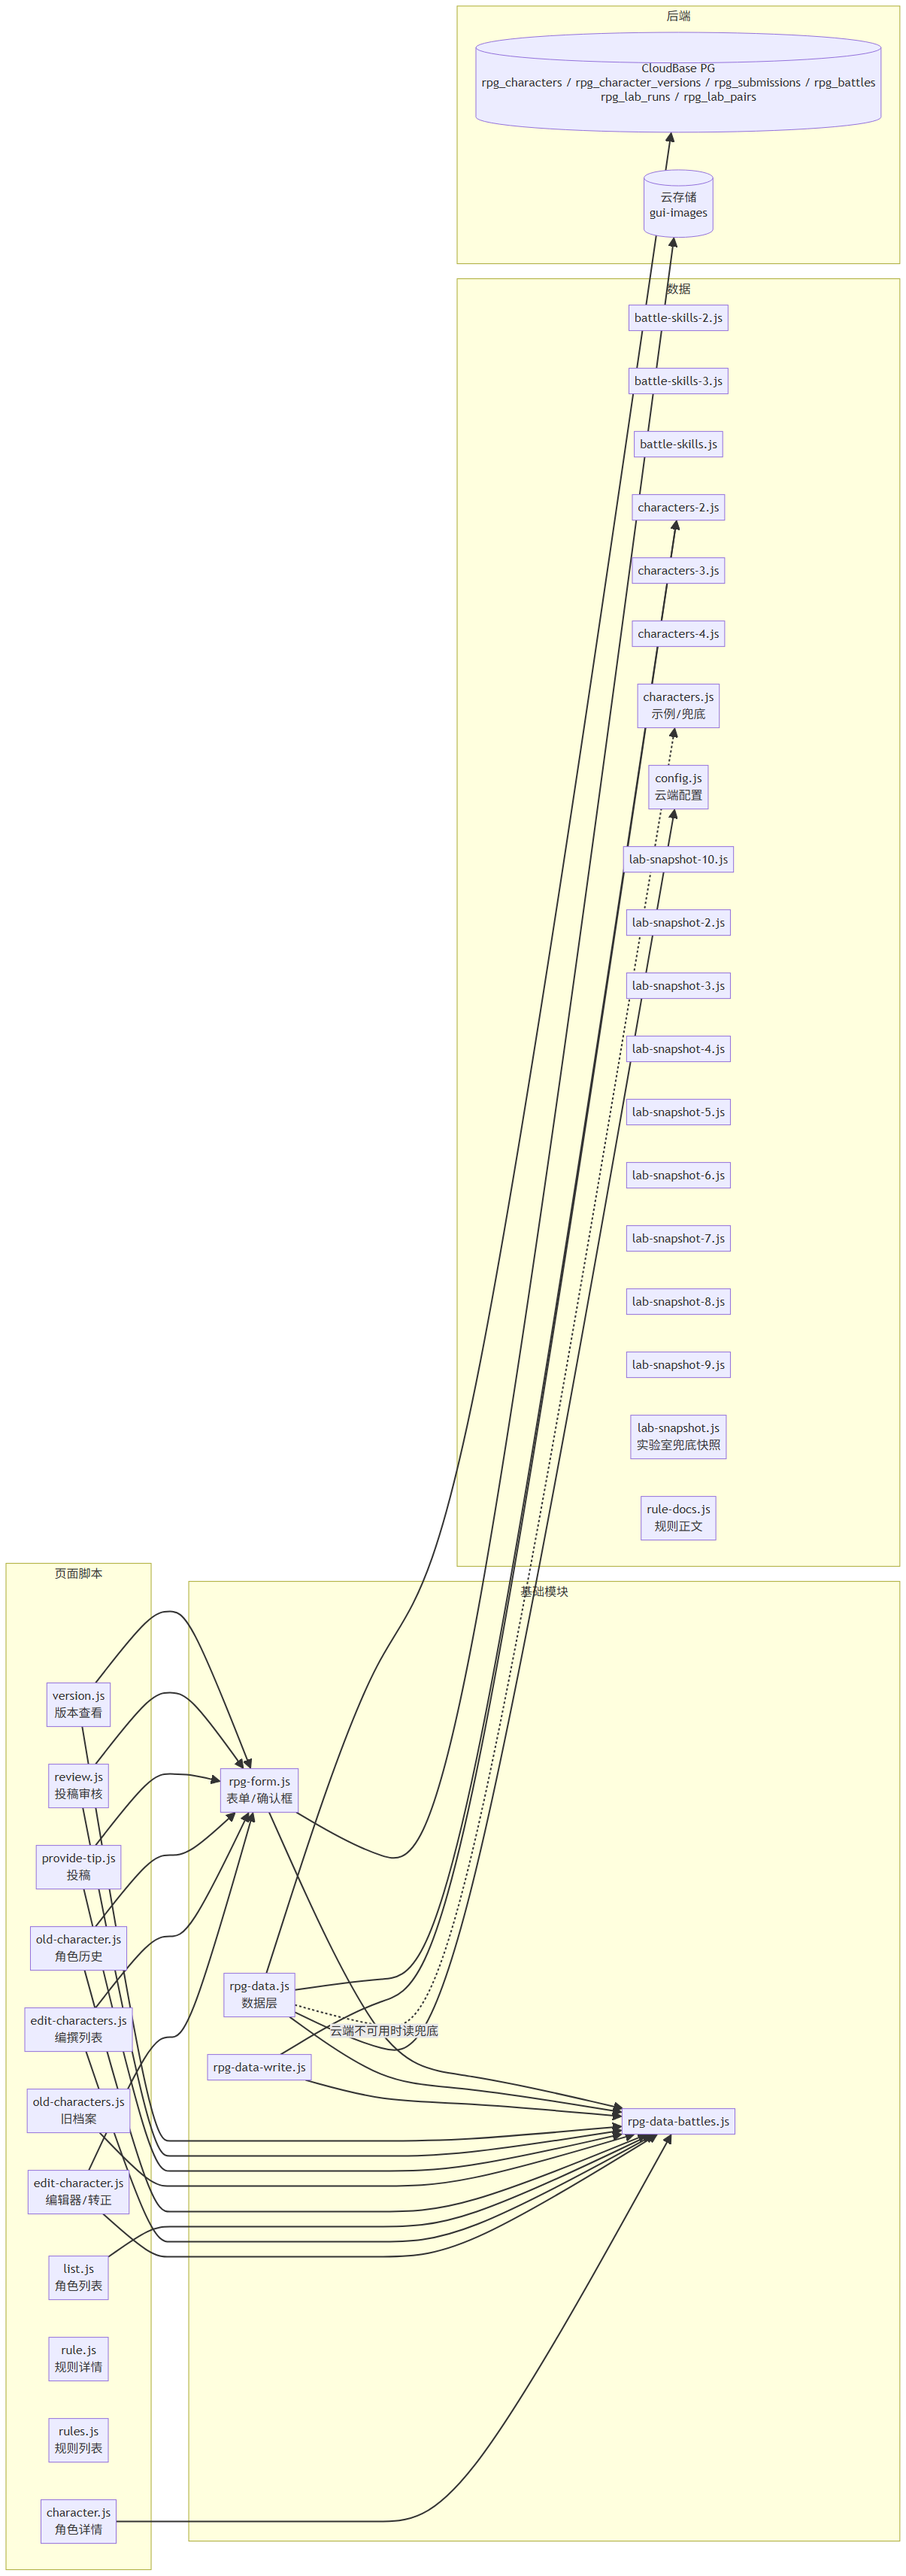
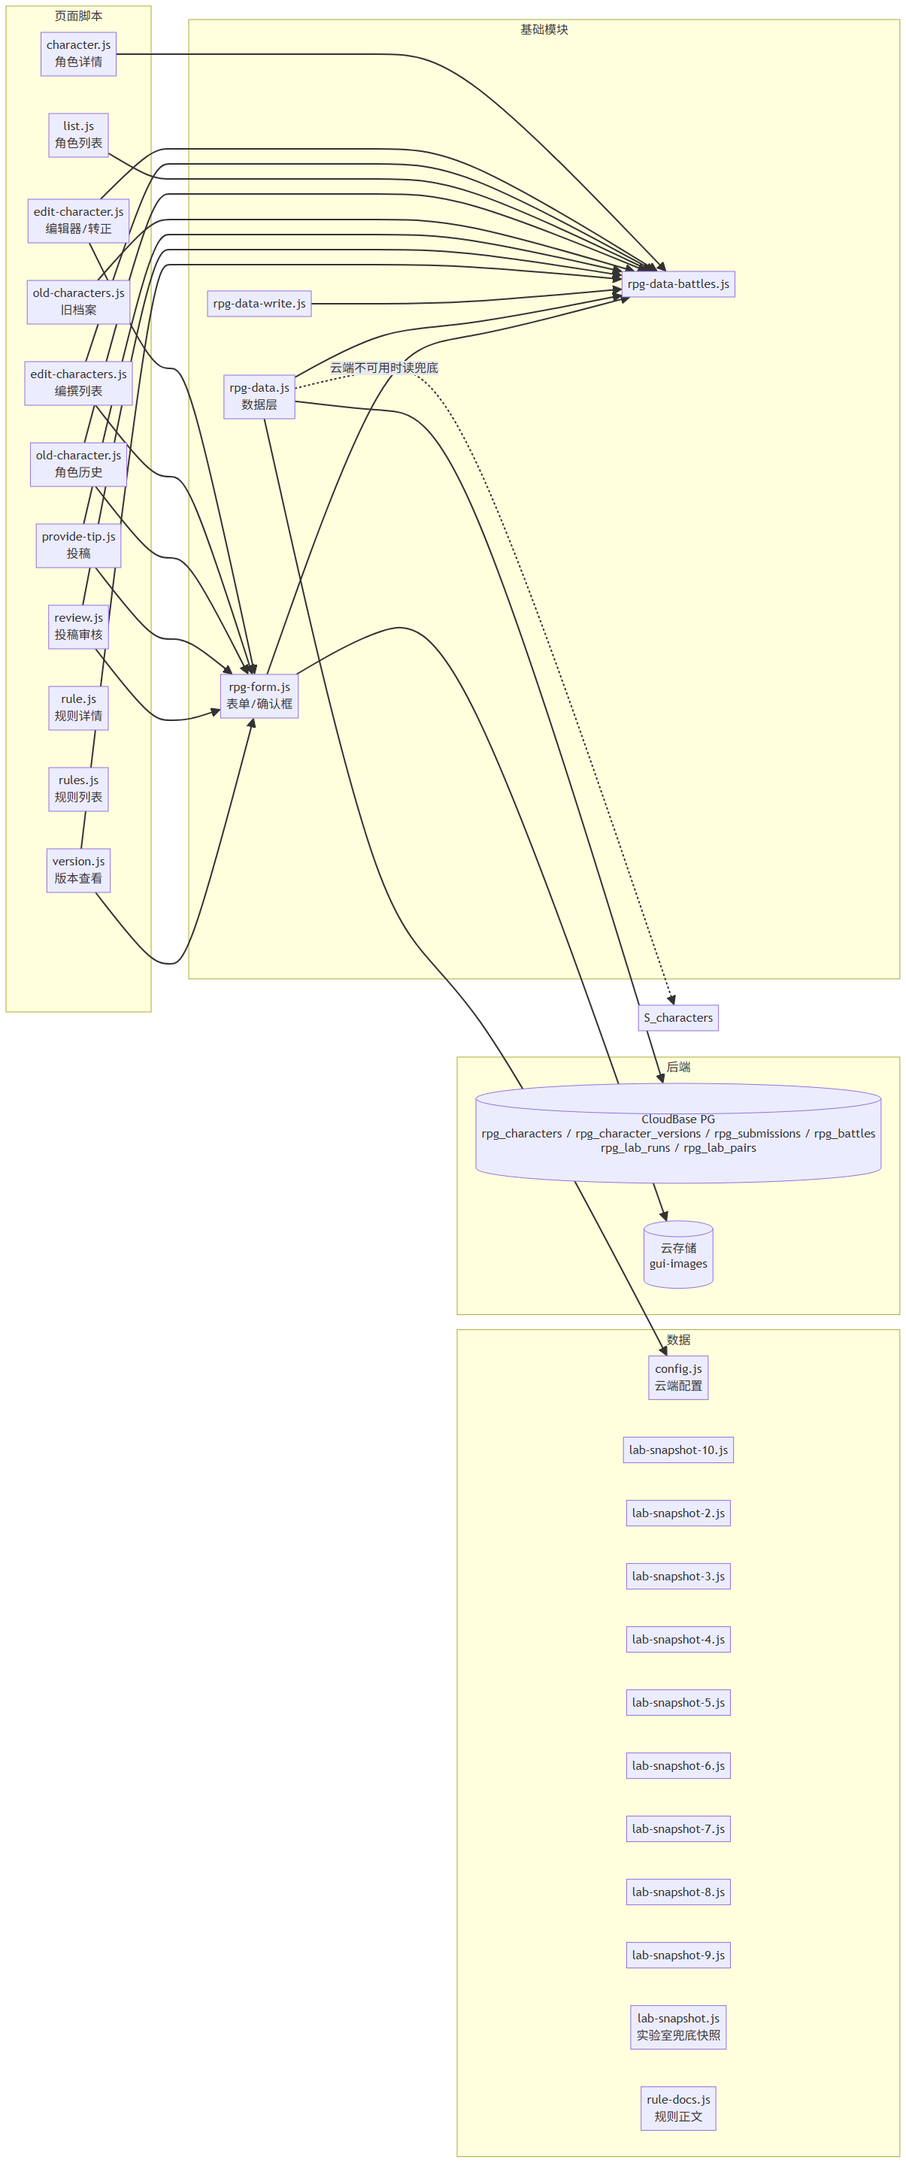
rpg6.0 架构阶段1：技能库与种子移入 data/skills、data/seeds，收敛全部引用

diff --git a/rpg6.0/test.html b/rpg6.0/test.html
@@ -93,16 +93,16 @@
   <script src="../js/visit-beacon.js"></script>
   <script src="../guitu/data/config.js"></script>
   <script src="data/config.js"></script>
-  <script src="data/characters.js"></script>
-  <script src="data/characters-2.js"></script>
-  <script src="data/characters-3.js"></script>
-  <script src="data/characters-4.js"></script>
+  <script src="data/seeds/characters.js"></script>
+  <script src="data/seeds/characters-2.js"></script>
+  <script src="data/seeds/characters-3.js"></script>
+  <script src="data/seeds/characters-4.js"></script>
   <script src="js/rpg-data-write.js"></script>
   <script src="js/rpg-data-battles.js"></script>
   <script src="js/rpg-data.js"></script>
-  <script src="data/battle-skills.js"></script>
-  <script src="data/battle-skills-2.js"></script>
-  <script src="data/battle-skills-3.js"></script>
+  <script src="data/skills/battle-skills.js"></script>
+  <script src="data/skills/battle-skills-2.js"></script>
+  <script src="data/skills/battle-skills-3.js"></script>
   <script src="js/engine/version.js"></script>
   <script src="js/engine/rng.js"></script>
   <script src="js/engine/rules.js"></script>

diff --git a/rpg6.0/character.html b/rpg6.0/character.html
@@ -40,10 +40,10 @@
 
   <script src="../guitu/data/config.js"></script>
   <script src="data/config.js"></script>
-  <script src="data/characters.js"></script>
-  <script src="data/characters-2.js"></script>
-  <script src="data/characters-3.js"></script>
-  <script src="data/characters-4.js"></script>
+  <script src="data/seeds/characters.js"></script>
+  <script src="data/seeds/characters-2.js"></script>
+  <script src="data/seeds/characters-3.js"></script>
+  <script src="data/seeds/characters-4.js"></script>
   <script src="js/rpg-data-write.js"></script>
   <script src="js/rpg-data-battles.js"></script>
   <script src="js/rpg-data.js"></script>

diff --git a/rpg6.0/rpg6.0.html b/rpg6.0/rpg6.0.html
@@ -94,10 +94,10 @@
 
   <script src="../guitu/data/config.js"></script>
   <script src="data/config.js"></script>
-  <script src="data/characters.js"></script>
-  <script src="data/characters-2.js"></script>
-  <script src="data/characters-3.js"></script>
-  <script src="data/characters-4.js"></script>
+  <script src="data/seeds/characters.js"></script>
+  <script src="data/seeds/characters-2.js"></script>
+  <script src="data/seeds/characters-3.js"></script>
+  <script src="data/seeds/characters-4.js"></script>
   <script src="js/rpg-data-write.js"></script>
   <script src="js/rpg-data-battles.js"></script>
   <script src="js/rpg-data.js"></script>

diff --git a/rpg6.0/js/rpg-data.js b/rpg6.0/js/rpg-data.js
@@ -1,5 +1,5 @@
 /* 回合制正传 6.0 · 角色档案的数据访问层
-   数据库是唯一数据源；云端不可用时退回 data/characters.js 的内置副本。
+   数据库是唯一数据源；云端不可用时退回 data/seeds/characters.js 的内置副本。
    拆成 3 个文件按顺序加载：rpg-data-write.js → rpg-data-battles.js → rpg-data.js，函数都挂在 window.RpgData 上。 */
 (function () {
   "use strict";

diff --git a/rpg6.0/架构.md b/rpg6.0/架构.md
@@ -3,7 +3,7 @@
 页面、脚本、数据、后端之间的依赖关系。标记区间由脚本生成、**不要手改**；区间外的说明是手写的。两边冲突时以代码为准。
 
 <!-- AUTO-GENERATED:START 由 _local/tools/build-docs.js 生成，勿手工编辑本区间 -->
-**14** 个页面 · **15** 个脚本 · **61** 条依赖边
+**14** 个页面 · **15** 个脚本 · **59** 条依赖边
 
 扫描得到：页面清单、页面→脚本、页面→页面（只认 HTML 里的 href）、脚本→基础模块（按 `window.X` 归属）。
 写死的：基础模块之间的边、模块→数据/后端、每页的访问级别。这几处改代码不会自动更新，冲突时以代码为准。
@@ -124,13 +124,6 @@ flowchart LR
   end
 
   subgraph dataLayer["数据"]
-    D_battle_skills_2["battle-skills-2.js"]
-    D_battle_skills_3["battle-skills-3.js"]
-    D_battle_skills["battle-skills.js"]
-    D_characters_2["characters-2.js"]
-    D_characters_3["characters-3.js"]
-    D_characters_4["characters-4.js"]
-    D_characters["characters.js<br/>示例/兜底"]
     D_config["config.js<br/>云端配置"]
     D_lab_snapshot_10["lab-snapshot-10.js"]
     D_lab_snapshot_2["lab-snapshot-2.js"]
@@ -173,10 +166,8 @@ flowchart LR
   M_rpg_form --> M_rpg_data_battles
 
   %% 配置与兜底数据
-  M_rpg_data_write --> D_characters_2
-  M_rpg_data --> D_characters_2
   M_rpg_data --> D_config
-  M_rpg_data -.云端不可用时读兜底.-> D_characters
+  M_rpg_data -.云端不可用时读兜底.-> S_characters
 
   %% 后端
   M_rpg_data --> DB
@@ -187,22 +178,22 @@ flowchart LR
 
 `data/` 是云端表名配置、33 条兜底数据与规则正文；角色页面只读数据库，规则页面只读文件。
 
-| 页面 | battle-skills-2 | battle-skills-3 | battle-skills | characters-2 | characters-3 | characters-4 | characters | config | lab-snapshot-10 | lab-snapshot-2 | lab-snapshot-3 | lab-snapshot-4 | lab-snapshot-5 | lab-snapshot-6 | lab-snapshot-7 | lab-snapshot-8 | lab-snapshot-9 | lab-snapshot | rule-docs | rpg-data-battles | rpg-data-write | rpg-data | rpg-form | 该页自己的脚本 |
-|---|:-:|:-:|:-:|:-:|:-:|:-:|:-:|:-:|:-:|:-:|:-:|:-:|:-:|:-:|:-:|:-:|:-:|:-:|:-:|:-:|:-:|:-:|:-:|---|
-| `rpg6.0.html` | · | · | · | ✓ | ✓ | ✓ | ✓ | ✓ | · | · | · | · | · | · | · | · | · | · | · | ✓ | ✓ | ✓ | · | `list.js` |
-| `character.html` | · | · | · | ✓ | ✓ | ✓ | ✓ | ✓ | · | · | · | · | · | · | · | · | · | · | · | ✓ | ✓ | ✓ | · | `character.js` |
-| `rules.html` | · | · | · | · | · | · | · | · | · | · | · | · | · | · | · | · | · | · | ✓ | · | · | · | · | `rules.js` |
-| `rule.html` | · | · | · | · | · | · | · | · | · | · | · | · | · | · | · | · | · | · | ✓ | · | · | · | · | `rule.js` |
-| `provide-tip.html` | · | · | · | · | · | · | · | ✓ | · | · | · | · | · | · | · | · | · | · | · | ✓ | ✓ | ✓ | ✓ | `provide-tip.js` |
-| `test.html` | ✓ | ✓ | ✓ | ✓ | ✓ | ✓ | ✓ | ✓ | · | · | · | · | · | · | · | · | · | · | · | ✓ | ✓ | ✓ | · | · |
-| `battles.html` | · | · | · | · | · | · | · | ✓ | · | · | · | · | · | · | · | · | · | · | · | ✓ | ✓ | ✓ | · | · |
-| `lab.html` | · | · | · | · | · | · | · | ✓ | ✓ | ✓ | ✓ | ✓ | ✓ | ✓ | ✓ | ✓ | ✓ | ✓ | · | · | · | · | · | · |
-| `edit-characters.html` | · | · | · | · | · | · | · | ✓ | · | · | · | · | · | · | · | · | · | · | · | ✓ | ✓ | ✓ | ✓ | `edit-characters.js` |
-| `edit-character.html` | · | · | · | · | · | · | · | ✓ | · | · | · | · | · | · | · | · | · | · | · | ✓ | ✓ | ✓ | ✓ | `edit-character.js` |
-| `review.html` | · | · | · | · | · | · | · | ✓ | · | · | · | · | · | · | · | · | · | · | · | ✓ | ✓ | ✓ | ✓ | `review.js` |
-| `old-characters.html` | · | · | · | · | · | · | · | ✓ | · | · | · | · | · | · | · | · | · | · | · | ✓ | ✓ | ✓ | · | `old-characters.js` |
-| `old-character.html` | · | · | · | · | · | · | · | ✓ | · | · | · | · | · | · | · | · | · | · | · | ✓ | ✓ | ✓ | ✓ | `old-character.js` |
-| `version.html` | · | · | · | · | · | · | · | ✓ | · | · | · | · | · | · | · | · | · | · | · | ✓ | ✓ | ✓ | ✓ | `version.js` |
+| 页面 | config | lab-snapshot-10 | lab-snapshot-2 | lab-snapshot-3 | lab-snapshot-4 | lab-snapshot-5 | lab-snapshot-6 | lab-snapshot-7 | lab-snapshot-8 | lab-snapshot-9 | lab-snapshot | rule-docs | rpg-data-battles | rpg-data-write | rpg-data | rpg-form | 该页自己的脚本 |
+|---|:-:|:-:|:-:|:-:|:-:|:-:|:-:|:-:|:-:|:-:|:-:|:-:|:-:|:-:|:-:|:-:|---|
+| `rpg6.0.html` | ✓ | · | · | · | · | · | · | · | · | · | · | · | ✓ | ✓ | ✓ | · | `list.js` |
+| `character.html` | ✓ | · | · | · | · | · | · | · | · | · | · | · | ✓ | ✓ | ✓ | · | `character.js` |
+| `rules.html` | · | · | · | · | · | · | · | · | · | · | · | ✓ | · | · | · | · | `rules.js` |
+| `rule.html` | · | · | · | · | · | · | · | · | · | · | · | ✓ | · | · | · | · | `rule.js` |
+| `provide-tip.html` | ✓ | · | · | · | · | · | · | · | · | · | · | · | ✓ | ✓ | ✓ | ✓ | `provide-tip.js` |
+| `test.html` | ✓ | · | · | · | · | · | · | · | · | · | · | · | ✓ | ✓ | ✓ | · | · |
+| `battles.html` | ✓ | · | · | · | · | · | · | · | · | · | · | · | ✓ | ✓ | ✓ | · | · |
+| `lab.html` | ✓ | ✓ | ✓ | ✓ | ✓ | ✓ | ✓ | ✓ | ✓ | ✓ | ✓ | · | · | · | · | · | · |
+| `edit-characters.html` | ✓ | · | · | · | · | · | · | · | · | · | · | · | ✓ | ✓ | ✓ | ✓ | `edit-characters.js` |
+| `edit-character.html` | ✓ | · | · | · | · | · | · | · | · | · | · | · | ✓ | ✓ | ✓ | ✓ | `edit-character.js` |
+| `review.html` | ✓ | · | · | · | · | · | · | · | · | · | · | · | ✓ | ✓ | ✓ | ✓ | `review.js` |
+| `old-characters.html` | ✓ | · | · | · | · | · | · | · | · | · | · | · | ✓ | ✓ | ✓ | · | `old-characters.js` |
+| `old-character.html` | ✓ | · | · | · | · | · | · | · | · | · | · | · | ✓ | ✓ | ✓ | ✓ | `old-character.js` |
+| `version.html` | ✓ | · | · | · | · | · | · | · | · | · | · | · | ✓ | ✓ | ✓ | ✓ | `version.js` |
 
 上表只列本模块的脚本；跨模块引用见第五节。
 
@@ -216,13 +207,6 @@ flowchart LR
 | `rpg-data-write.js` | 11 | 0 |
 | `rpg-data.js` | 11 | 0 |
 | `rpg-form.js` | 6 | 6 |
-| `battle-skills-2.js` | 1 | 0 |
-| `battle-skills-3.js` | 1 | 0 |
-| `battle-skills.js` | 1 | 0 |
-| `characters-2.js` | 3 | 2 |
-| `characters-3.js` | 3 | 0 |
-| `characters-4.js` | 3 | 0 |
-| `characters.js` | 3 | 0 |
 | `config.js` | 12 | 1 |
 | `lab-snapshot-10.js` | 1 | 0 |
 | `lab-snapshot-2.js` | 1 | 0 |
